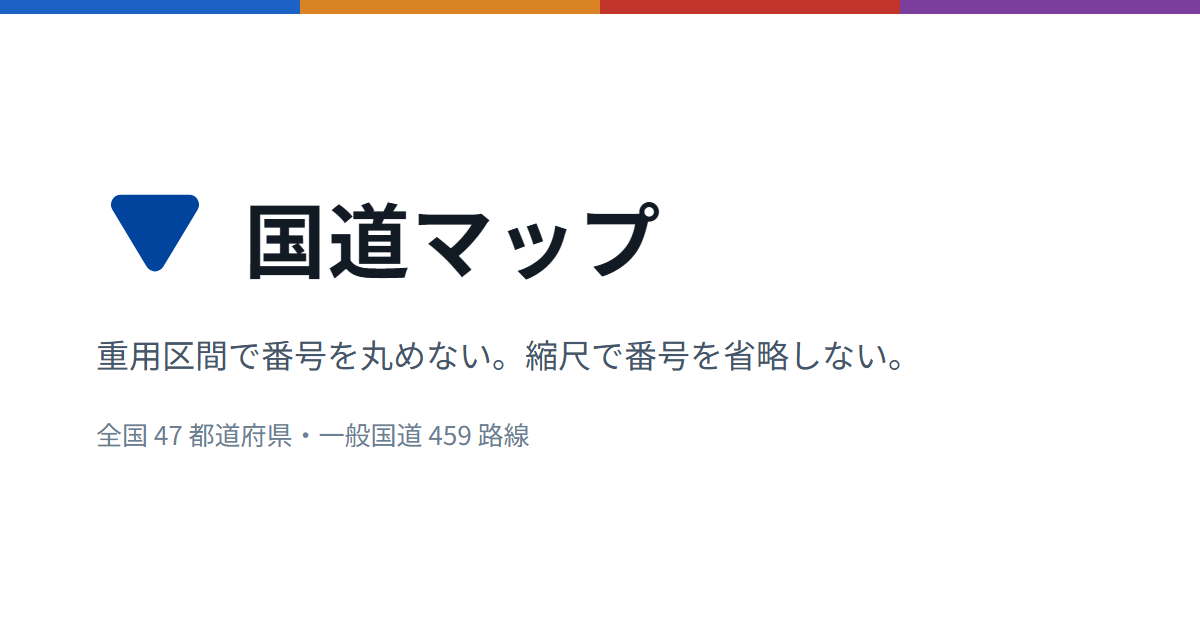
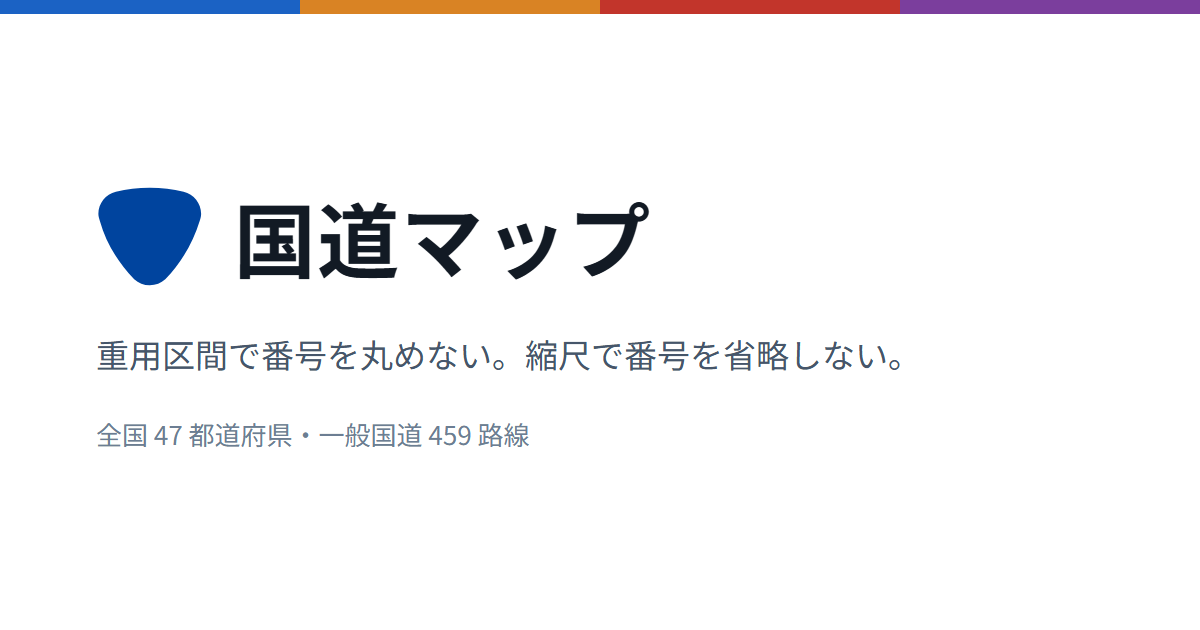
国道番号標識を実物の輪郭に差し替え、数字をRobotoにする (#10)
* 国道番号標識を実物の輪郭に差し替え、数字をRobotoにする

これまでの標識は roundedPolygon() で角丸三角形を計算していたが、実物の
案内標識(Japanese_National_Route_Sign_Blank.svg, Wikimedia Commons,
パブリックドメイン)をユーザーが編集した参照SVGから、輪郭をそのまま
トレースして差し替えた。文字部分は元のSVGで既に削除されている
(フォントライセンスの懸念のため)。

favicon・サイドバー見出しは index.html が favicon.svg をそのまま
表示する既存の作りなので、shield.mjs の差し替えだけで両方に伝播する。

数字の書体もui-monospace/Consolasから、ヒゲの無いRoboto Boldに変更した。
実物の標識の字形に近く、この用途では他ライブラリと同じくnode_modulesから
web/vendor/に複製して自己ホストしている(外部CDNに頼らない既存の方針を
踏襲)。

レビューで見つかった2件を直している:
- .shield / .shield.sm / brand-card svg の固定px幅が旧viewBoxの縦横比
  専用に調整されていたため、新しい縦横比では上下左右に隙間ができていた。
  width を決め打ちせず height のみを指定し、幅は auto にした
- favicon/カード生成でpaint-order="stroke"を外していた。これは枠の
  はみ出し防止ではなく、地の青が枠に食われないための指定だったため、
  外すと2つの生成画像の見た目が食い違う退行になっていた。元に戻した

* CodeRabbitの指摘を反映する

- test/shield.test.mjs: anchors() が各cセグメントの終点しか見ておらず、
  制御点が余白の外に出ていても素通りしていた。3次ベジェ曲線は制御点の
  凸包から出ないため、制御点も検査対象に加えて曲線自体の余白を保証する
- web/style.css: font-family の 'Roboto' が引用符付きだった。この
  ファイルの他のフォント指定(スペースを含まない名前)はいずれも引用符
  無しなので、既存の書き方に合わせた

---------

Changed region(s): [[0.0617, 0.3016, 0.555, 0.4524]]

diff --git a/web/style.css b/web/style.css
@@ -71,6 +71,17 @@
   }
 }
 
+/* 標識の番号だけに使う。実物の書体はヒゲ（セリフ）が無く字面が立っており、
+   等幅の代替書体は "1" などに細いヒゲが残って実物と字形が違って見える。
+   scripts/vendor_web.mjs が node_modules から複製する。 */
+@font-face {
+  font-family: Roboto;
+  src: url('vendor/roboto-latin-700-normal.woff2') format('woff2');
+  font-weight: 700;
+  font-style: normal;
+  font-display: swap;
+}
+
 * { box-sizing: border-box; }
 
 /* スクロールバー ----------------------------------------------------------
@@ -276,14 +287,18 @@ input[type="search"]::placeholder { font-size: .82em; }
 /* おにぎり（国道番号標識）-------------------------------------------------
    実物と同じ配色にしてある。白い縁は明るい配色の面では見えないが、暗い面では
    標識と地の境目になる。実物が縁を持っているのも同じ理由である。 */
-.shield { width: 34px; height: 30px; flex: 0 0 auto; display: block; }
-.shield svg { display: block; width: 100%; height: 100%; }
+/* 幅は決め打ちにしない。SHIELD_VIEWBOX の縦横比が変わっても、svg 自身の
+   実寸（height だけ決めて width を auto にする）が追随する。 */
+.shield { height: 30px; flex: 0 0 auto; display: block; }
+.shield svg { display: block; height: 100%; width: auto; }
 .shield path { fill: var(--shield-face); stroke: var(--shield-edge); }
 .shield text {
-  fill: var(--shield-ink); font-family: ui-monospace, Consolas, monospace;
-  font-size: 14px; font-weight: 700;
+  /* x/y/textLength in shield.mjs はここと合わせて目で調整してある。
+     viewBox を変えるときは三つとも一緒に見直す。 */
+  fill: var(--shield-ink); font-family: Roboto, ui-monospace, Consolas, monospace;
+  font-size: 212.5px; font-weight: 700;
 }
-.shield.sm { width: 25px; height: 22px; }
+.shield.sm { height: 22px; }
 
 /* ポップアップの標識は押せる。標識そのものが路線の名前なので、脇に別の
    ボタンを足すより標識自体を的にするほうが短い。 */
